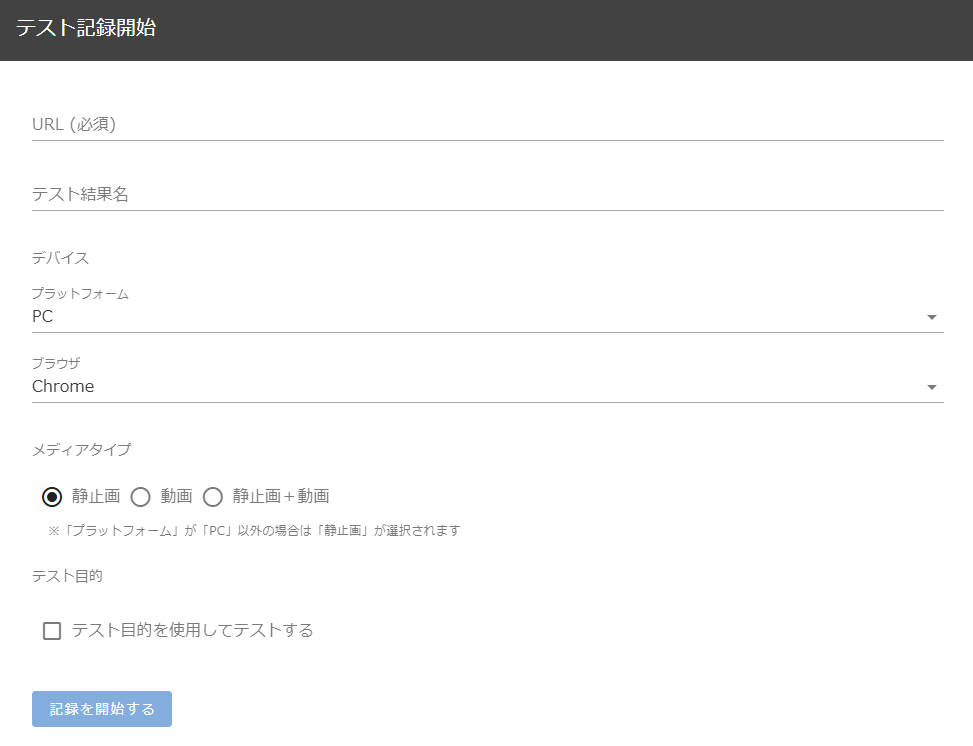
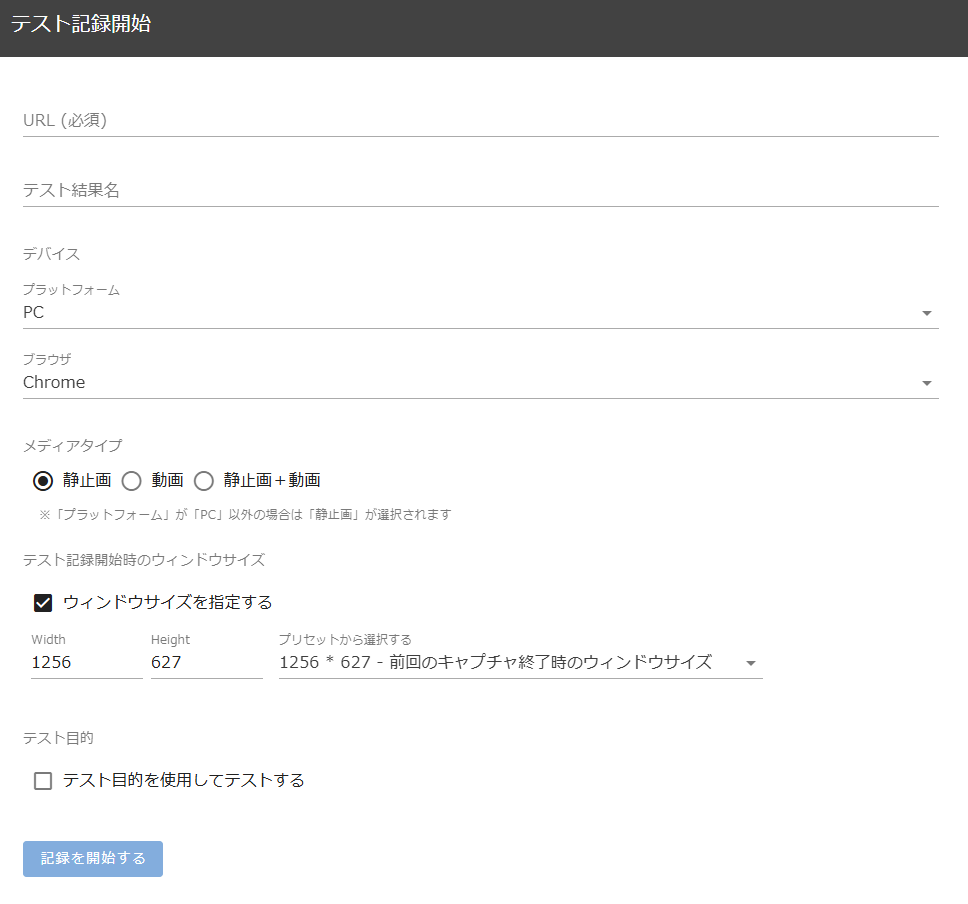
#1673 added window size at test start to the manual

diff --git a/docs/manual/capture/manual-capture.md b/docs/manual/capture/manual-capture.md
@@ -105,6 +105,13 @@ USB で接続されているデバイスを選択することができます。
 
 :bulb:動画に関する詳細は「[動画記録](../common/capture-video.md)」をご参照ください。
 
+## テスト記録開始時のウィンドウサイズ
+
+<img src="./images/capture-window-size.png" />
+「ウィンドウサイズを指定する」にチェックを入れるとテスト対象のウィンドウサイズを指定することができます。
+
+`width` と `Height` には、前回のテスト記録で取得した最新の操作時のウィンドウサイズが保持されています。また、プリセットから選択することも可能です。
+
 ## テスト目的
 
 <img src="./images/start-test-purpose.png"/>
